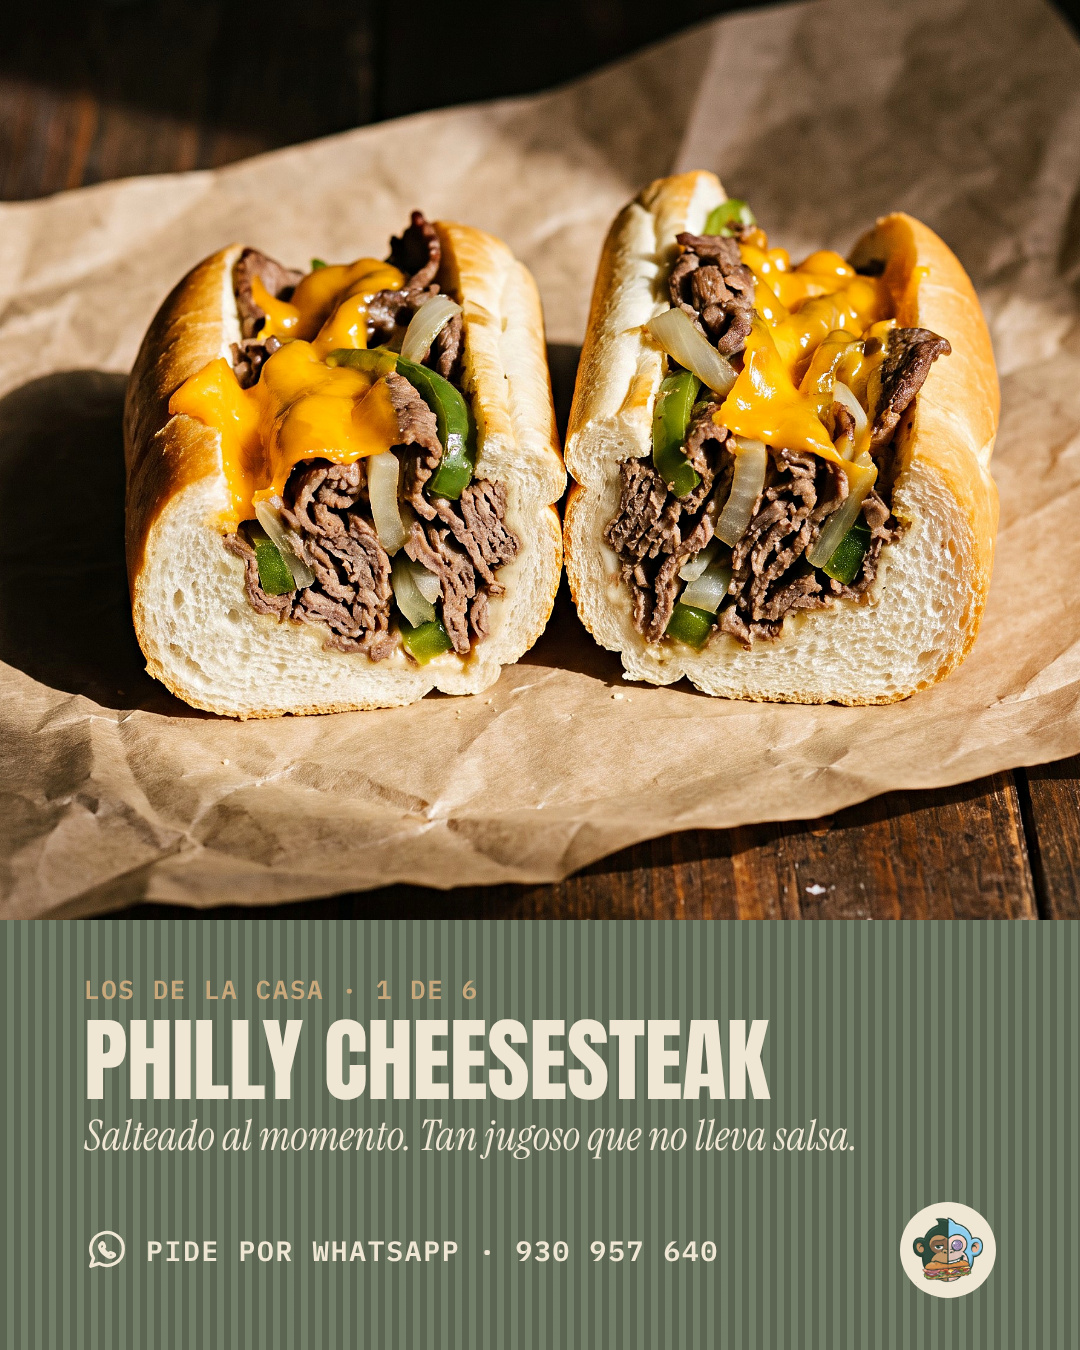
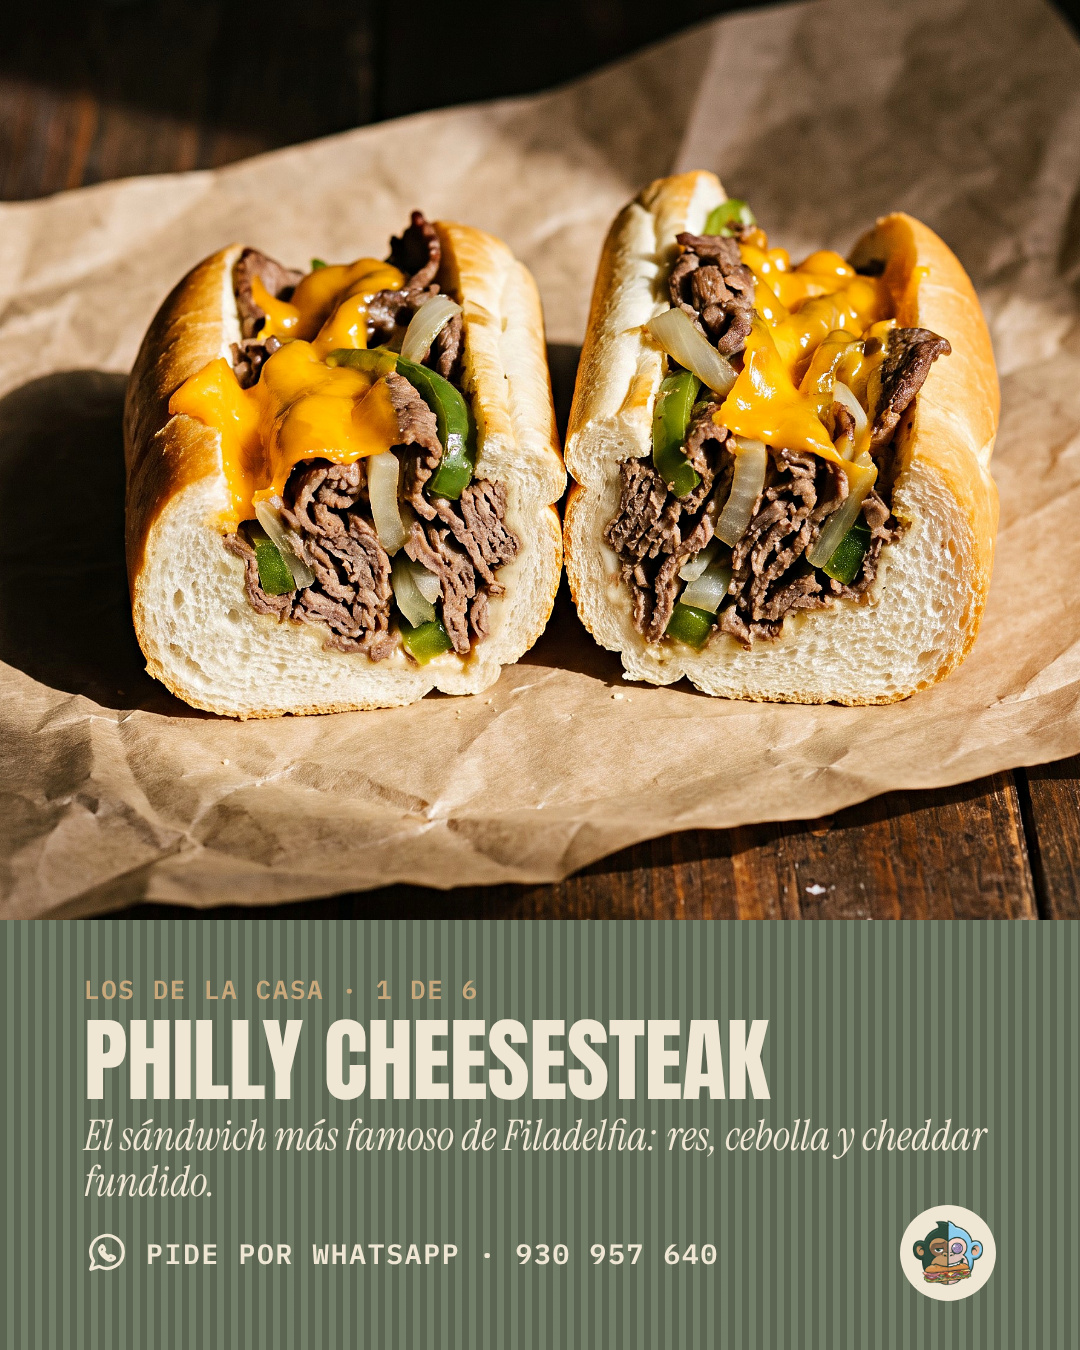
Philly: «El sándwich más famoso de Filadelfia» (dueño: «nadie conoce qué es un Philly»)
Claude-Session: https://claude.ai/code/session_01NCVgixMFGDjTdiWThGTz7g

diff --git a/docs/marketing/equipo/aprendizajes/redactor.md b/docs/marketing/equipo/aprendizajes/redactor.md
@@ -76,3 +76,9 @@ igual con el Philly». Las frases de momento («Hoy no cocinas.», «Hambre en s
 sándwich, sacadas de la carta: «Queso fundido hasta el borde.» y «Salteado al momento.». Va con «Cremoso y en lascas.»
 del Classic Tuna. Lección: en la publicación de un Signature, la línea bajo el nombre describe sabor o textura; el
 momento de compra va en otras piezas.
+
+## 2026-11-02 · Un nombre que nadie conoce se explica
+Dueño: «Nadie conoce qué es un Philly, entonces debemos venderlo como sándwich de estilo Filadelfia». En Trujillo,
+«Philly Cheesesteak» no dice nada. Bajo el nombre va qué es y qué lleva: «El sándwich más famoso de Filadelfia: res,
+cebolla y cheddar fundido.». Lección: si el nombre de un producto es extranjero o poco conocido, la primera línea dice qué
+es antes que cómo sabe. Revisar lo mismo con Hoagie y Tuna Melt.

diff --git a/docs/sesiones/2026-11-02.md b/docs/sesiones/2026-11-02.md
@@ -32,3 +32,7 @@
 - Dueño: «No necesita llevar "hoy no cocinas", por favor algo más descriptivo» y «hazlo y guárdalo igual con el Philly».
   La Meatball dice ahora «Queso fundido hasta el borde.» y el Philly, «Salteado al momento.», en la publicación, en la
   lámina de La carta y en el texto.
+- Dueño: «Nadie conoce qué es un Philly, entonces debemos venderlo como sándwich de estilo Filadelfia, etc., inventa algo
+  bien». Bajo el nombre ahora va «El sándwich más famoso de Filadelfia: res, cebolla y cheddar fundido.», y el texto
+  abre con «El sándwich más famoso de Filadelfia, hecho en Trujillo.». Se ve en la publicación y en la lámina 2 de La
+  carta. La historia 1 de Signatures no cambió: si el dueño quiere, se le pone lo mismo.
